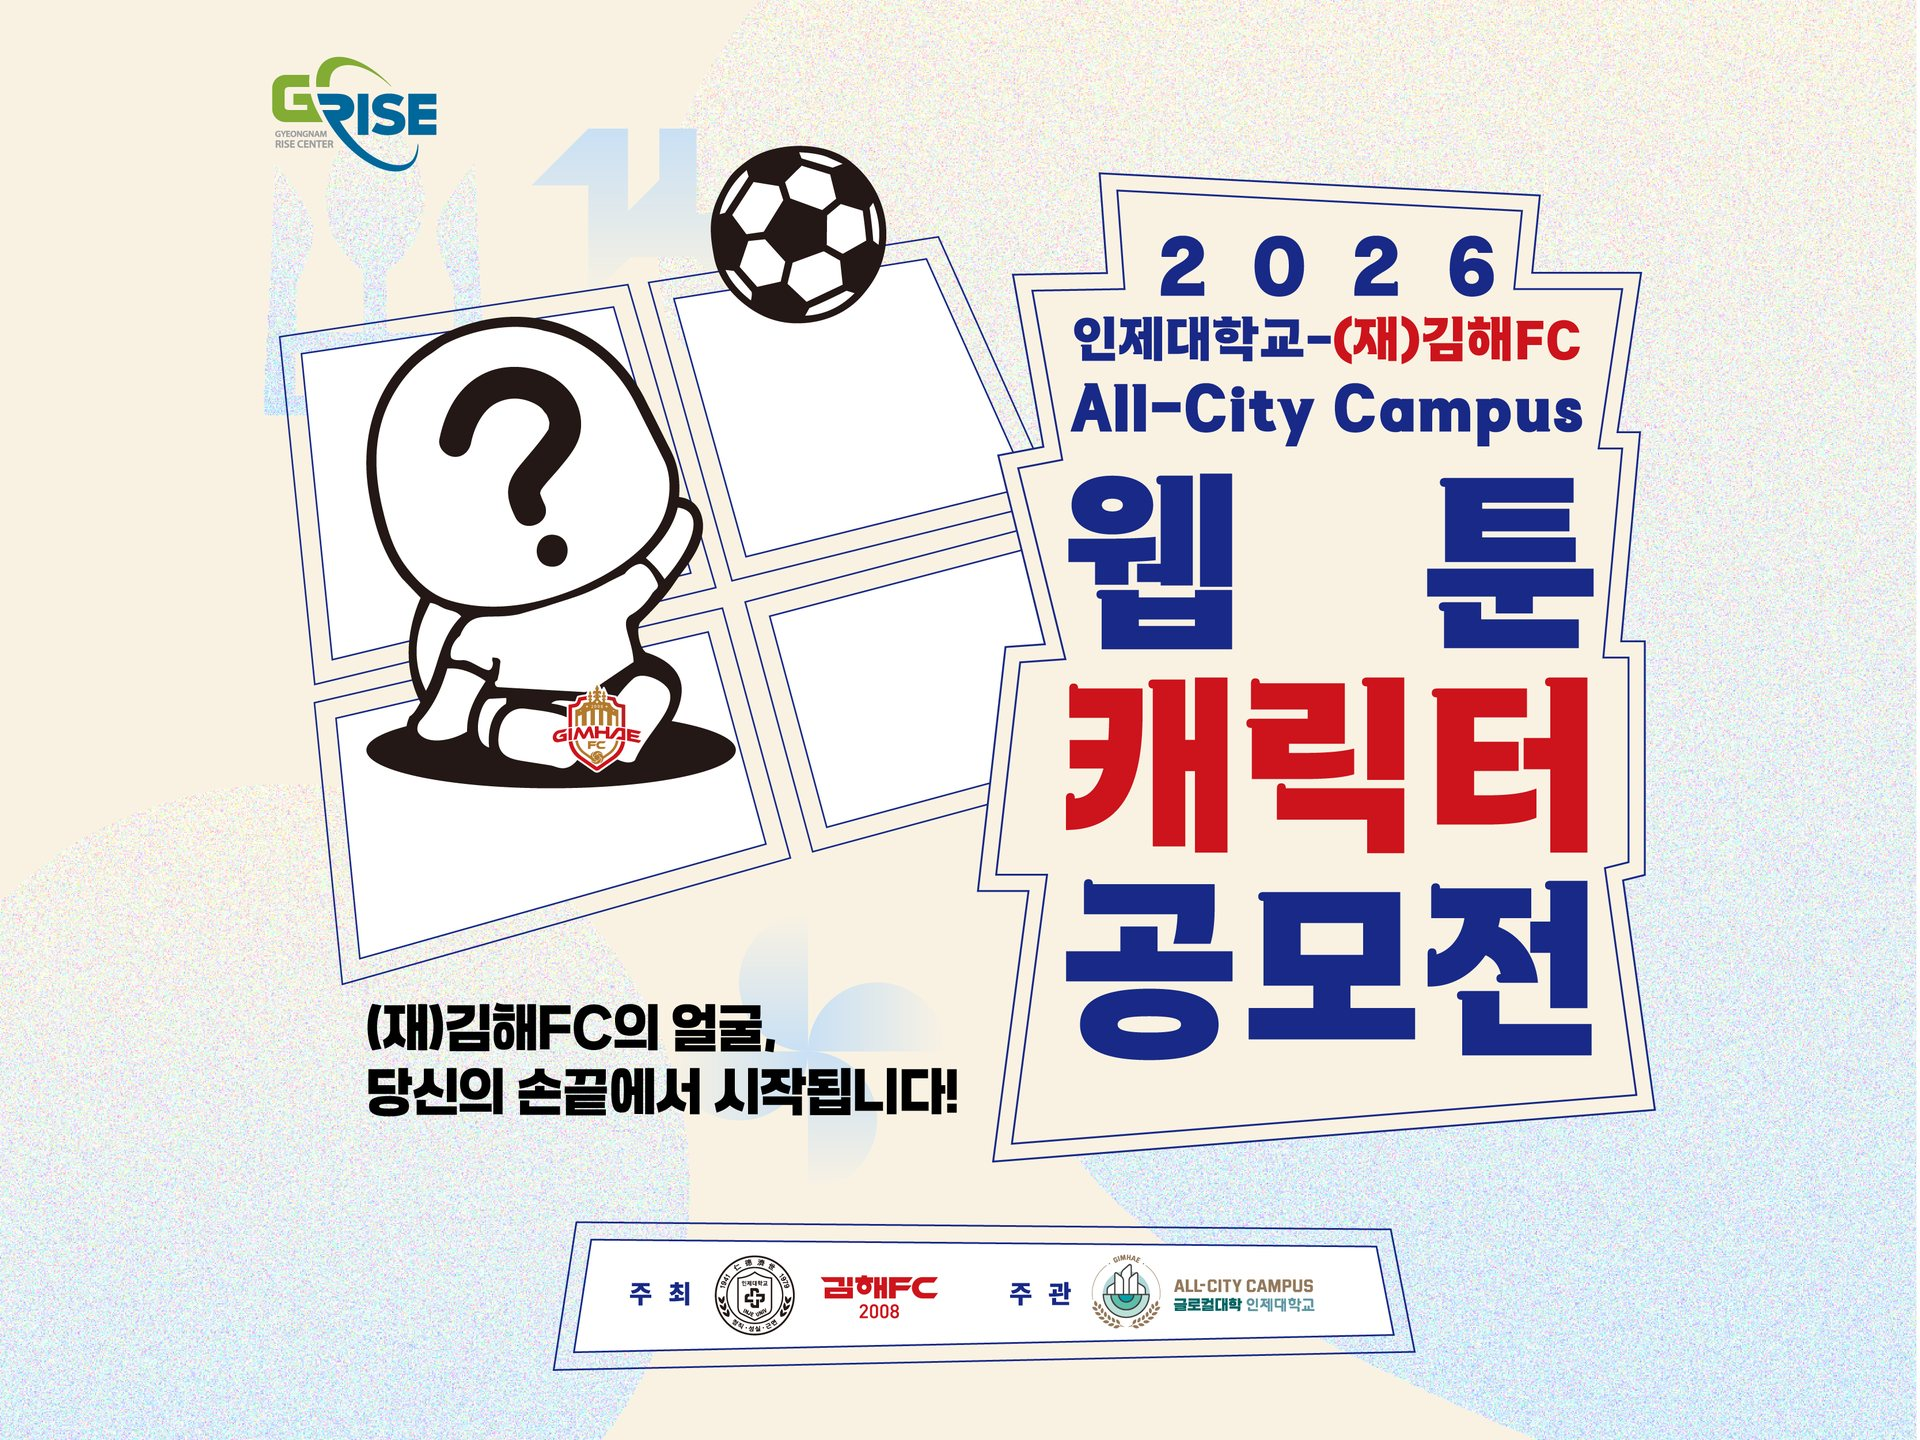
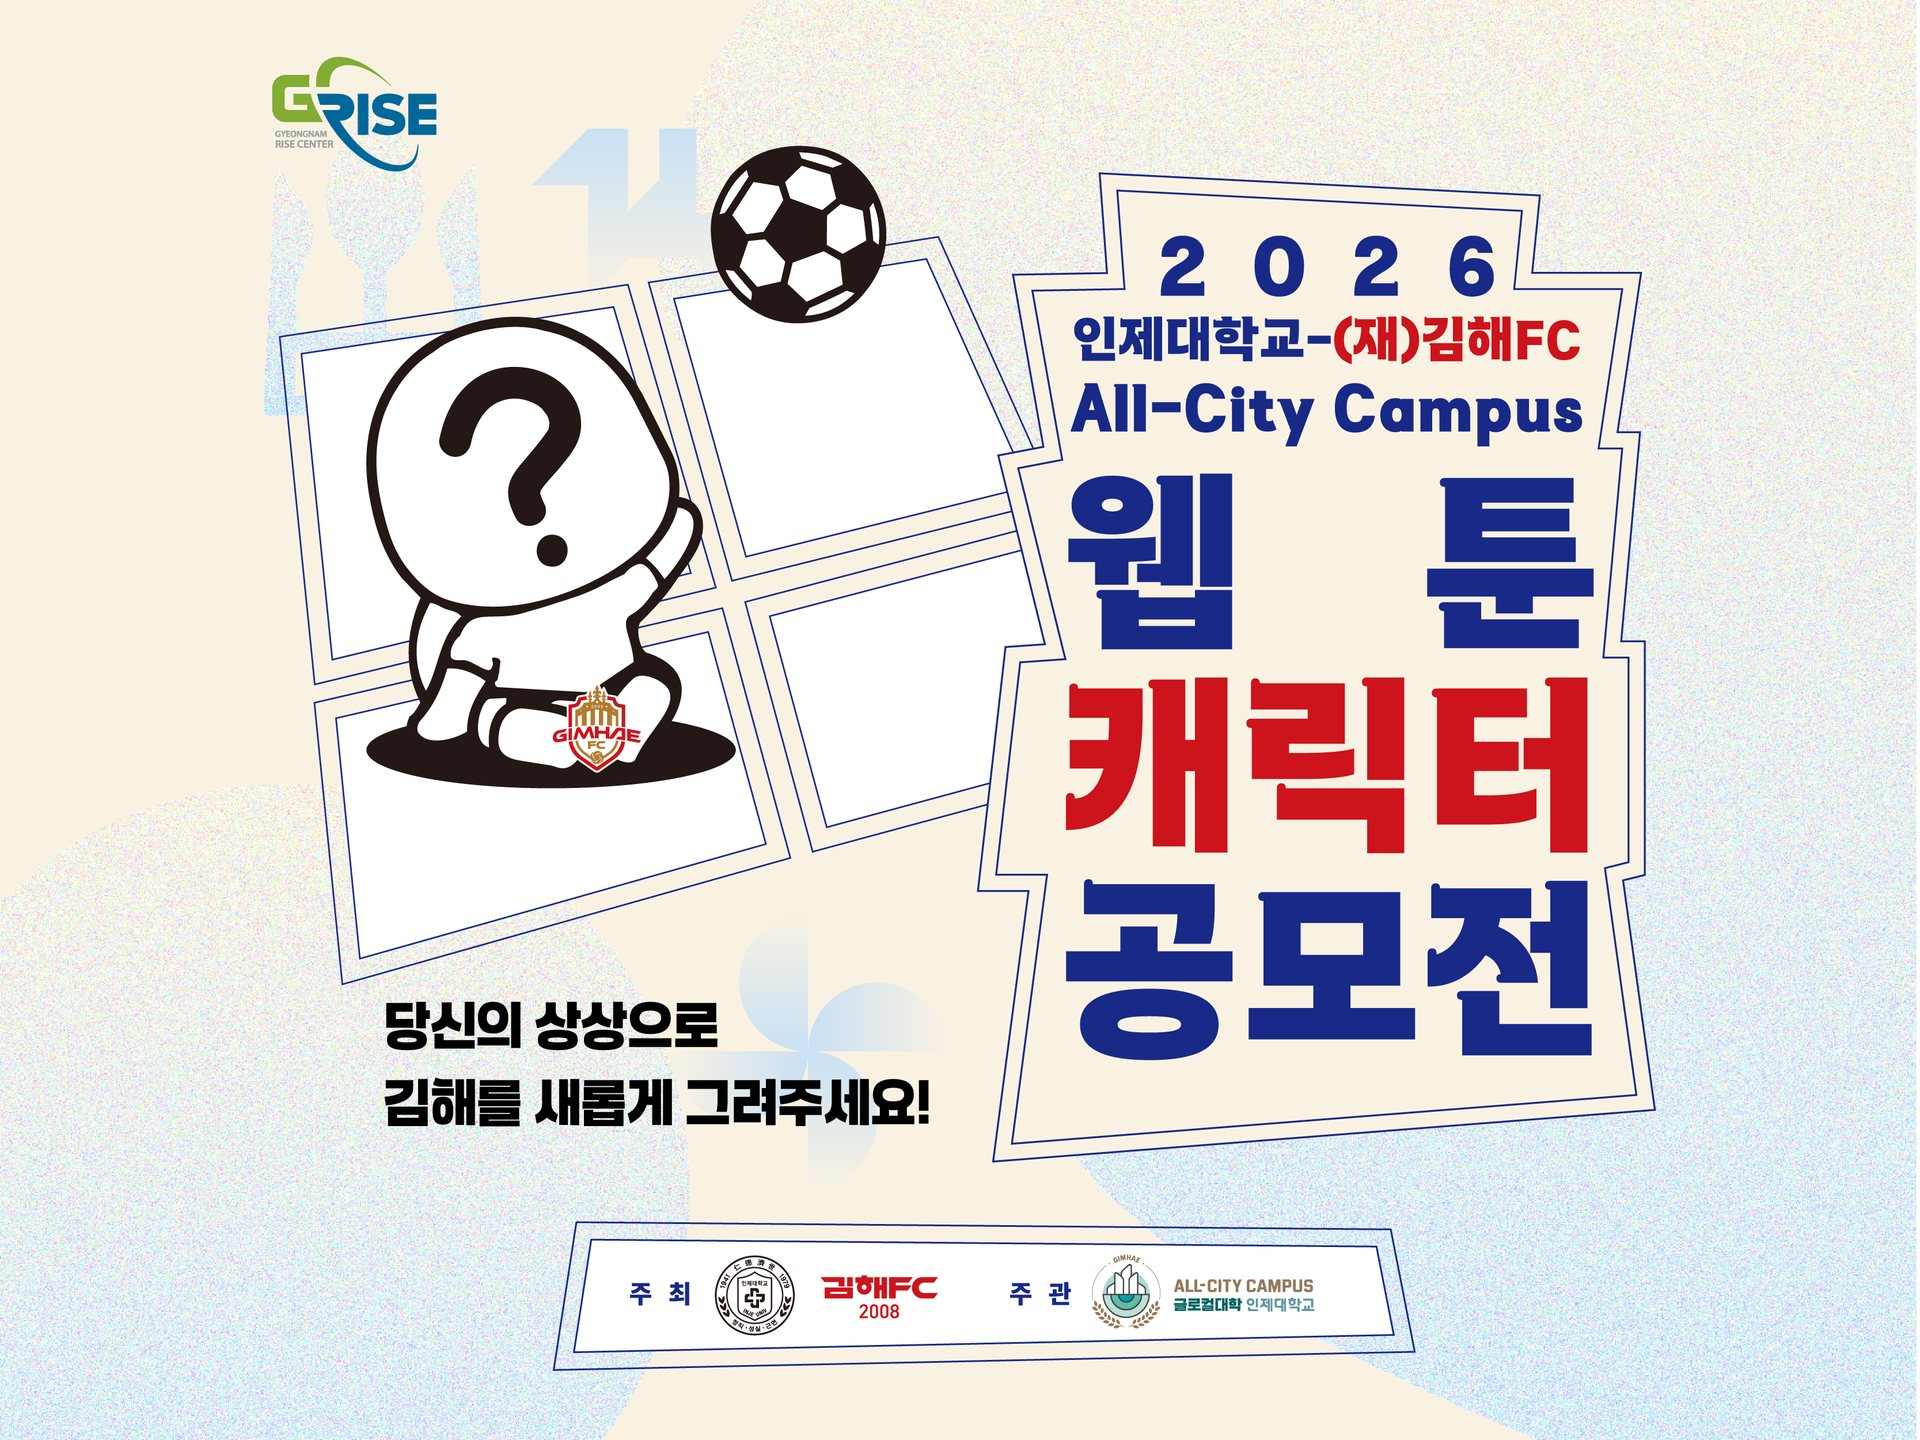
Add files via upload

Changed region(s): [[0.1875, 0.6875, 0.5, 0.7812]]

diff --git a/index.html b/index.html
@@ -302,7 +302,7 @@ footer .ft{text-align:center;font-size:13px;color:var(--ink-3);line-height:1.9}
   <div class="wrap">
     <div class="hero-img">
       <img src="hero.jpg" width="1920" height="1440"
-           alt="2026 인제대학교-(재)김해FC All-City Campus 웹툰·캐릭터 공모전 — (재)김해FC의 얼굴, 당신의 손끝에서 시작됩니다">
+           alt="2026 인제대학교-(재)김해FC All-City Campus 웹툰·캐릭터 공모전 — 당신의 상상으로 김해를 새롭게 그려주세요">
     </div>
 
     <div class="hero-under">
